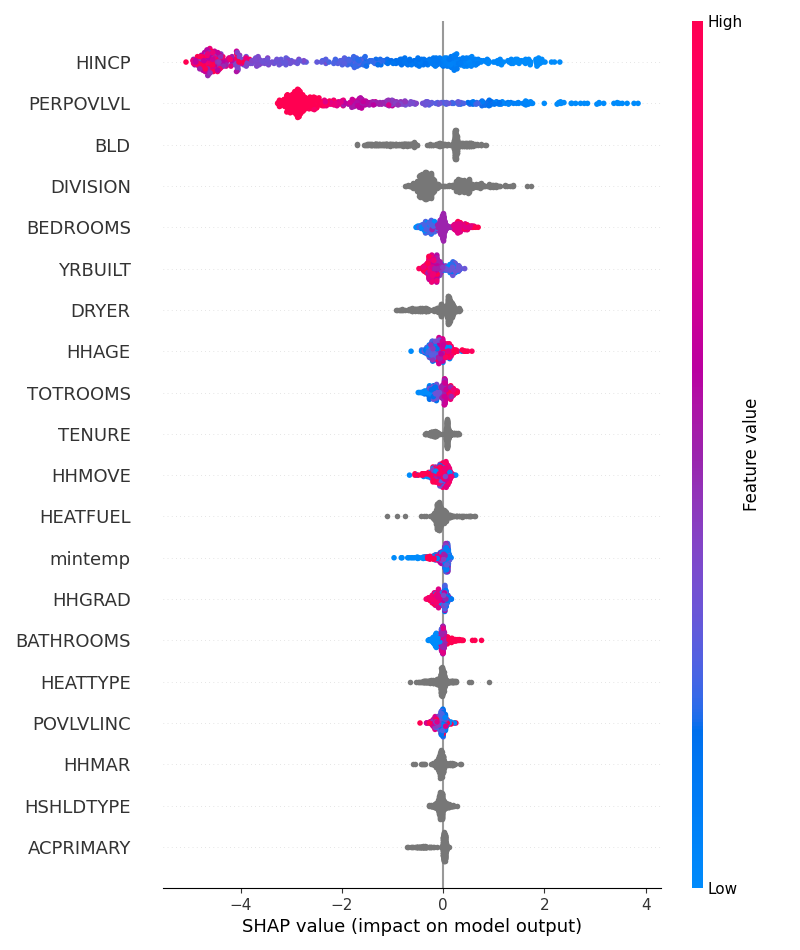
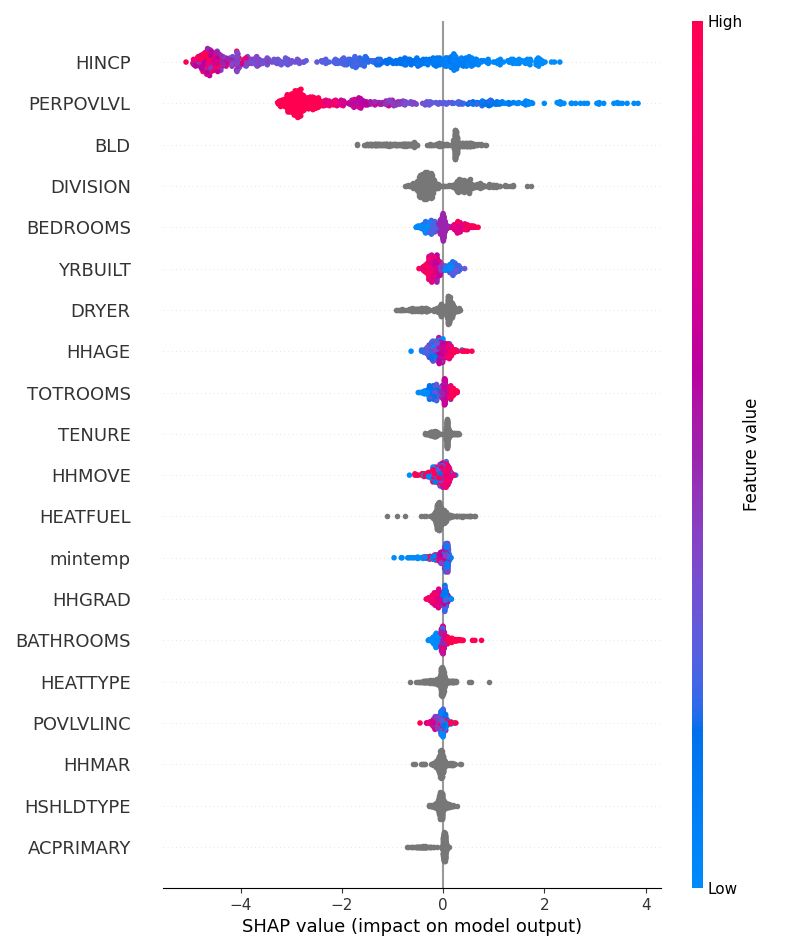
Minor updates to analysis.

diff --git a/code/01_current_climate/02_cleaning/03_basic_exclusions.py b/code/01_current_climate/02_cleaning/03_basic_exclusions.py
@@ -16,9 +16,13 @@ ahs_climate_excl = (
     .filter(col("HINCP") >= 4999) # Potential noise, exclude to be safe
     .filter(col("yearly_utils_cost") <= col("HINCP")) # Impossible
     .filter(col("HINCP") <= 848000) # implausible, high income
-    # other flags
-    .filter(~(col("TOTROOMS") < (col("BEDROOMS") + col("BATHROOMS")))) # sanity check
+    # issues with room variables
+    .filter(~(col("TOTROOMS") < (col("BEDROOMS") + col("BATHROOMS")))) # total rooms can't be less than bedrooms plus bathrooms
+    .filter(col("FINROOMS") == 0)
+    .filter(col("BEDROOMS") == 0)
+    # other
     .filter(col("YRBUILT") < 2024) # sanity check
+
 )
 
 
